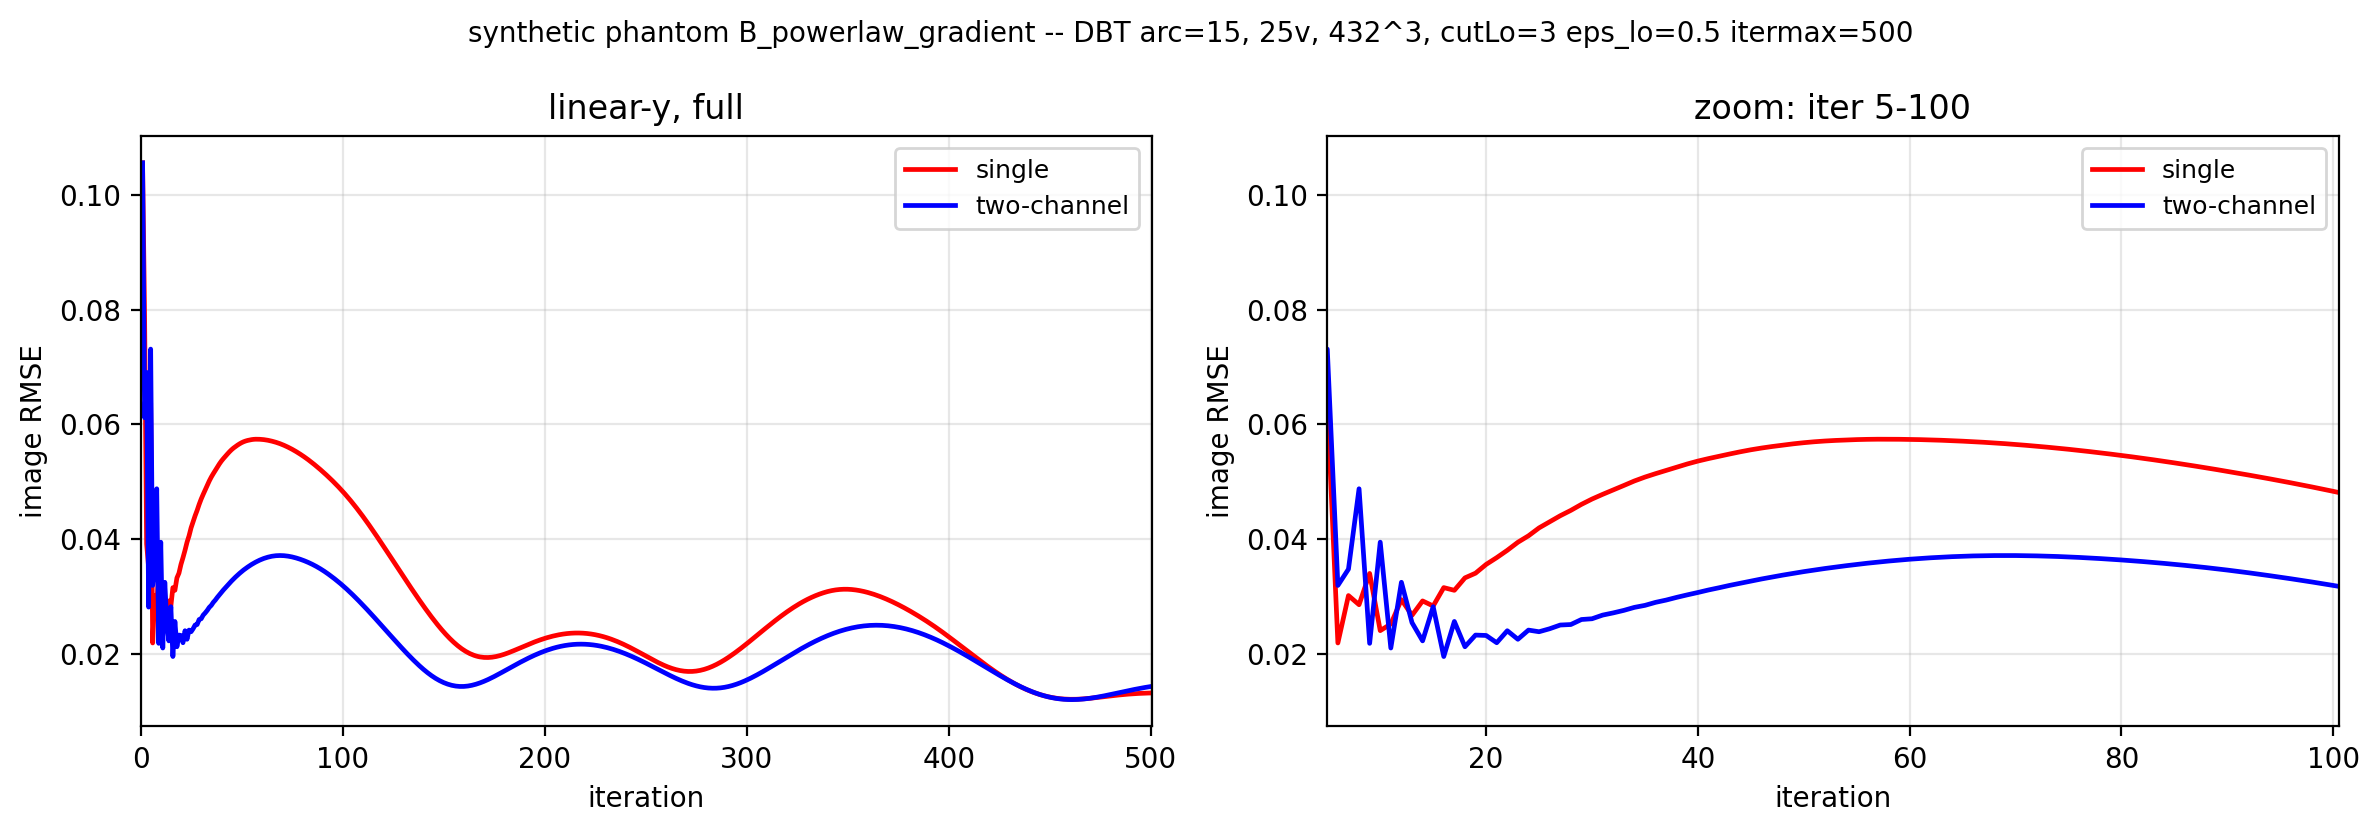
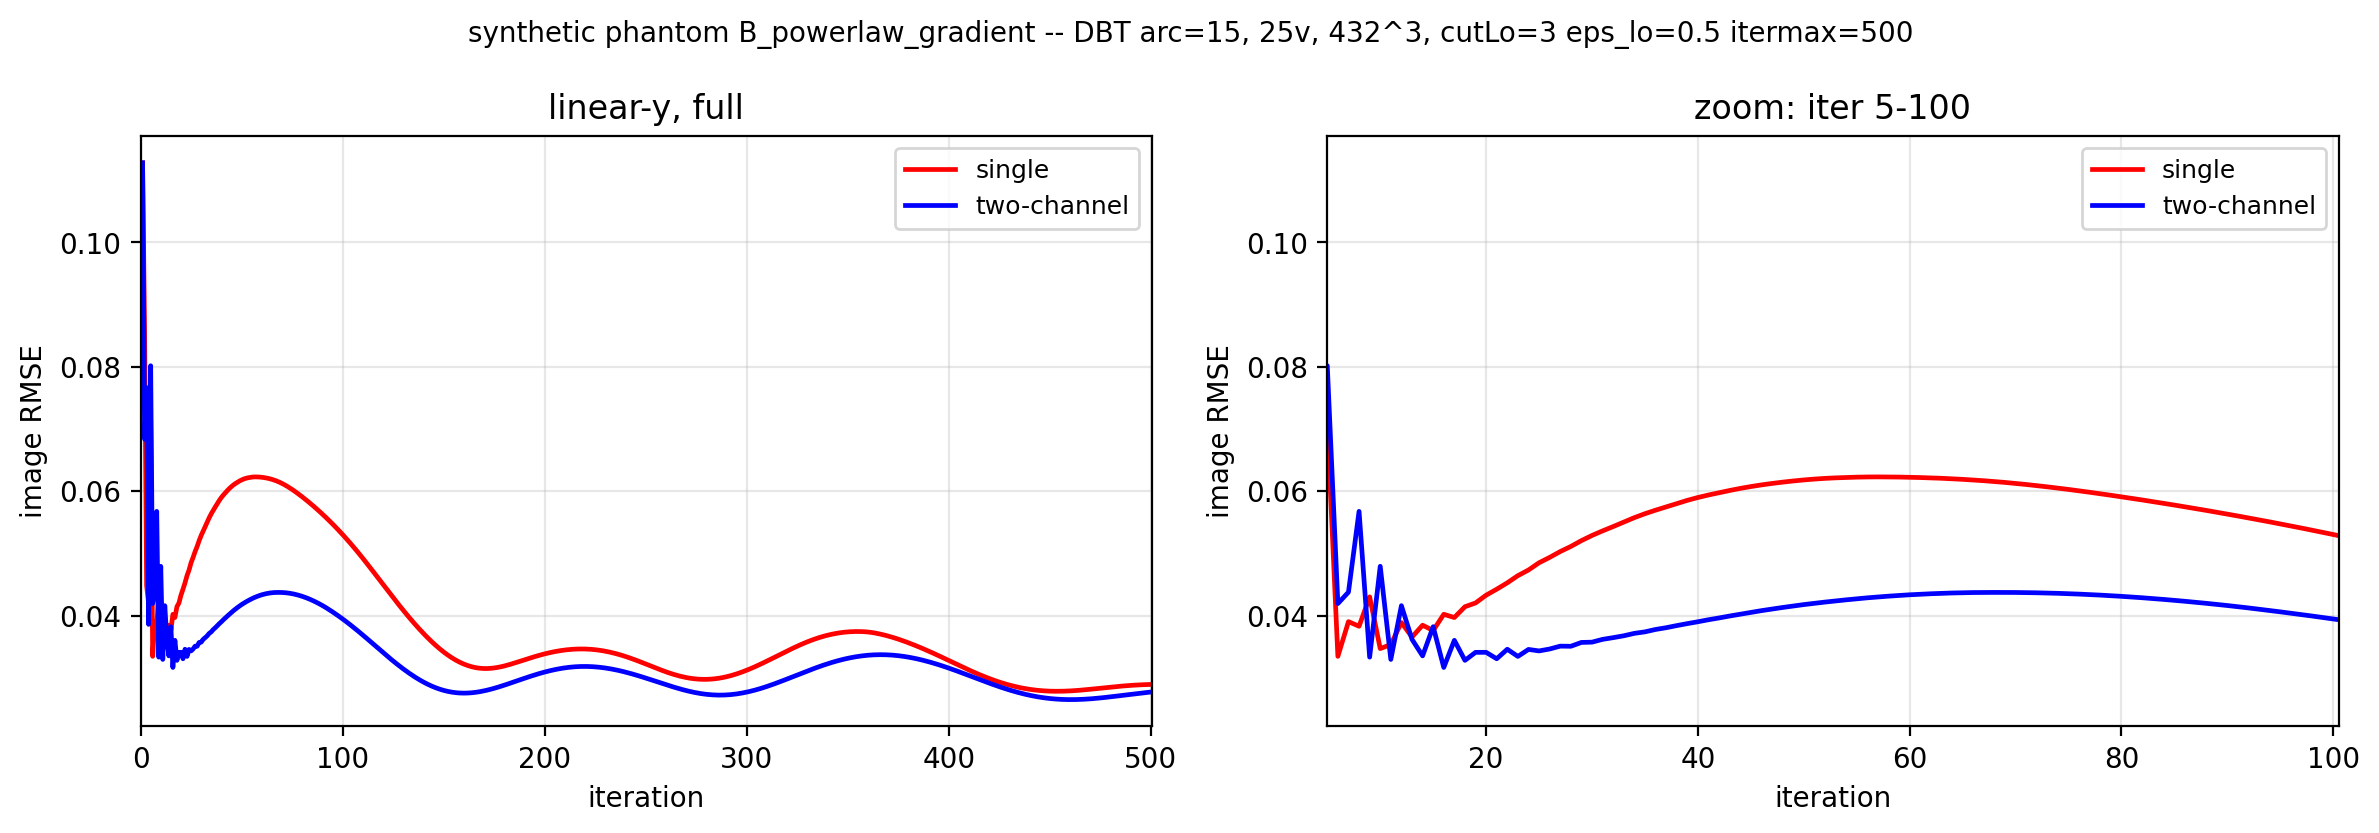
synthetic A B v2 with 2D-paper-like structure

diff --git a/scripts/_run_synthetic_phantoms.py b/scripts/_run_synthetic_phantoms.py
@@ -126,40 +126,91 @@ def build_blob_phantom(shape, dx_cm, rng):
     return vol
 
 
-def build_powerlaw_phantom(shape, dx_cm, rng, alpha=2.5,
-                            glandular_fraction=0.35, calc_count=120,
-                            mu_adipose=0.10, mu_glandular=0.22,
-                            mu_calc=0.50):
-    """A: native 3D 1/f^alpha noise -> binary glandular mask + adipose
-    background + sparse calcs. The Reiser-style recipe done in 3D."""
+def _powerlaw_field(shape, alpha, rng):
+    """Generate a normalized 1/f^alpha noise field via FFT filter."""
     NZ, NY, NX = shape
-    # 1/f^alpha noise via FFT filter
-    fz = np.fft.fftfreq(NZ)
-    fy = np.fft.fftfreq(NY)
-    fx = np.fft.fftfreq(NX)
+    fz = np.fft.fftfreq(NZ); fy = np.fft.fftfreq(NY); fx = np.fft.fftfreq(NX)
     FZ, FY, FX = np.meshgrid(fz, fy, fx, indexing="ij")
     f_mag = np.sqrt(FZ * FZ + FY * FY + FX * FX)
     f_mag[0, 0, 0] = 1.0
-    spec_filter = 1.0 / (f_mag ** alpha)
-    spec_filter[0, 0, 0] = 0.0  # zero DC
-
+    filt = 1.0 / (f_mag ** alpha)
+    filt[0, 0, 0] = 0.0
     white = rng.standard_normal(shape).astype(np.float32)
-    spec = np.fft.fftn(white)
-    spec = spec * spec_filter
-    field = np.real(np.fft.ifftn(spec)).astype(np.float32)
-    field = (field - field.min()) / (field.max() - field.min())
+    field = np.real(np.fft.ifftn(np.fft.fftn(white) * filt)).astype(np.float32)
+    # Standardize
+    field = (field - field.mean()) / (field.std() + 1e-12)
+    return field
 
-    # Threshold top glandular_fraction of voxels as fibroglandular
-    threshold = float(np.quantile(field, 1 - glandular_fraction))
-    glandular = field > threshold
+
+def build_powerlaw_phantom(shape, dx_cm, rng,
+                            alpha_lf=2.0, alpha_hf=1.5,
+                            lf_weight=0.7,
+                            glandular_fraction=0.42,
+                            intra_tissue_variation=0.10,
+                            n_calc_clusters=40,
+                            calc_cluster_size_range=(4, 12),
+                            calc_cluster_radius_range=(1, 3),
+                            skin_thickness_cm=0.20, skin_radius_cm=9.0,
+                            mu_adipose=0.10, mu_glandular=0.22,
+                            mu_skin=0.18, mu_calc=0.50):
+    """A: multi-band 3D power-law phantom emulating the 2D paper-breast.
+
+    Two power-law fields (LF alpha=2.8 + HF alpha=1.8) are combined and
+    hard-thresholded to a binary glandular mask, giving irregular pocketed
+    tissue boundaries similar to the Adipose / Fibroglandular maps of
+    the Reiser 2D paper-breast phantom. A skin ring is added at the
+    outer breast edge. Calcifications are emplaced as small clusters
+    (3-9 voxels each) rather than single isolated voxels. Within-tissue
+    intensity is modulated by +-intra_tissue_variation * the LF field
+    so neither tissue type is perfectly flat.
+    """
+    NZ, NY, NX = shape
+    field_lf = _powerlaw_field(shape, alpha_lf, rng)
+    field_hf = _powerlaw_field(shape, alpha_hf, rng)
+    combined = lf_weight * field_lf + (1.0 - lf_weight) * field_hf
+
+    # Binary glandular mask (hard threshold gives pocketed irregular edges)
+    threshold = float(np.quantile(combined, 1 - glandular_fraction))
+    glandular = combined > threshold
 
     vol = np.where(glandular, mu_glandular, mu_adipose).astype(np.float32)
 
-    # Sparse calcifications (single voxels at random positions)
-    calc_zs = rng.integers(0, NZ, size=calc_count)
-    calc_ys = rng.integers(0, NY, size=calc_count)
-    calc_xs = rng.integers(0, NX, size=calc_count)
-    vol[calc_zs, calc_ys, calc_xs] = mu_calc
+    # Intra-tissue density variation (+-intra_tissue_variation of nominal mu)
+    if intra_tissue_variation > 0:
+        # Use the LF field (smooth) so the variation looks like pockets
+        # of less/more dense rather than noise
+        mod = intra_tissue_variation * (field_lf / max(np.abs(field_lf).max(), 1e-12))
+        vol = vol * (1.0 + mod).astype(np.float32)
+
+    # Outer skin ring (mu_skin) and air outside skin
+    y = (np.arange(NY) - (NY - 1) / 2) * dx_cm
+    x = (np.arange(NX) - (NX - 1) / 2) * dx_cm
+    Y, X = np.meshgrid(y, x, indexing="ij")
+    r_xy = np.sqrt(Y * Y + X * X)
+    skin_mask_xy = (r_xy >= skin_radius_cm - skin_thickness_cm) & \
+                   (r_xy <  skin_radius_cm)
+    skin_mask = np.broadcast_to(skin_mask_xy[np.newaxis, :, :], shape)
+    vol = np.where(skin_mask, mu_skin, vol).astype(np.float32)
+
+    # Calcification clusters (groups of 3-9 voxels within a small radius)
+    n_clusters = n_calc_clusters
+    cs_lo, cs_hi = calc_cluster_size_range
+    cr_lo, cr_hi = calc_cluster_radius_range
+    for _ in range(n_clusters):
+        cz = int(rng.integers(2, max(NZ - 2, 3)))
+        cy = int(rng.integers(8, max(NY - 8, 9)))
+        cx = int(rng.integers(8, max(NX - 8, 9)))
+        # Avoid placing calcs in skin/air -- only inside tissue
+        if not (mu_adipose * 0.5 <= vol[cz, cy, cx] <= mu_glandular * 1.3):
+            continue
+        size = int(rng.integers(cs_lo, cs_hi + 1))
+        rad  = int(rng.integers(cr_lo, cr_hi + 1))
+        for _ in range(size):
+            dy = int(rng.integers(-rad, rad + 1))
+            dx = int(rng.integers(-rad, rad + 1))
+            yy, xx = cy + dy, cx + dx
+            if 0 <= yy < NY and 0 <= xx < NX:
+                vol[cz, yy, xx] = mu_calc
 
     return vol
 
